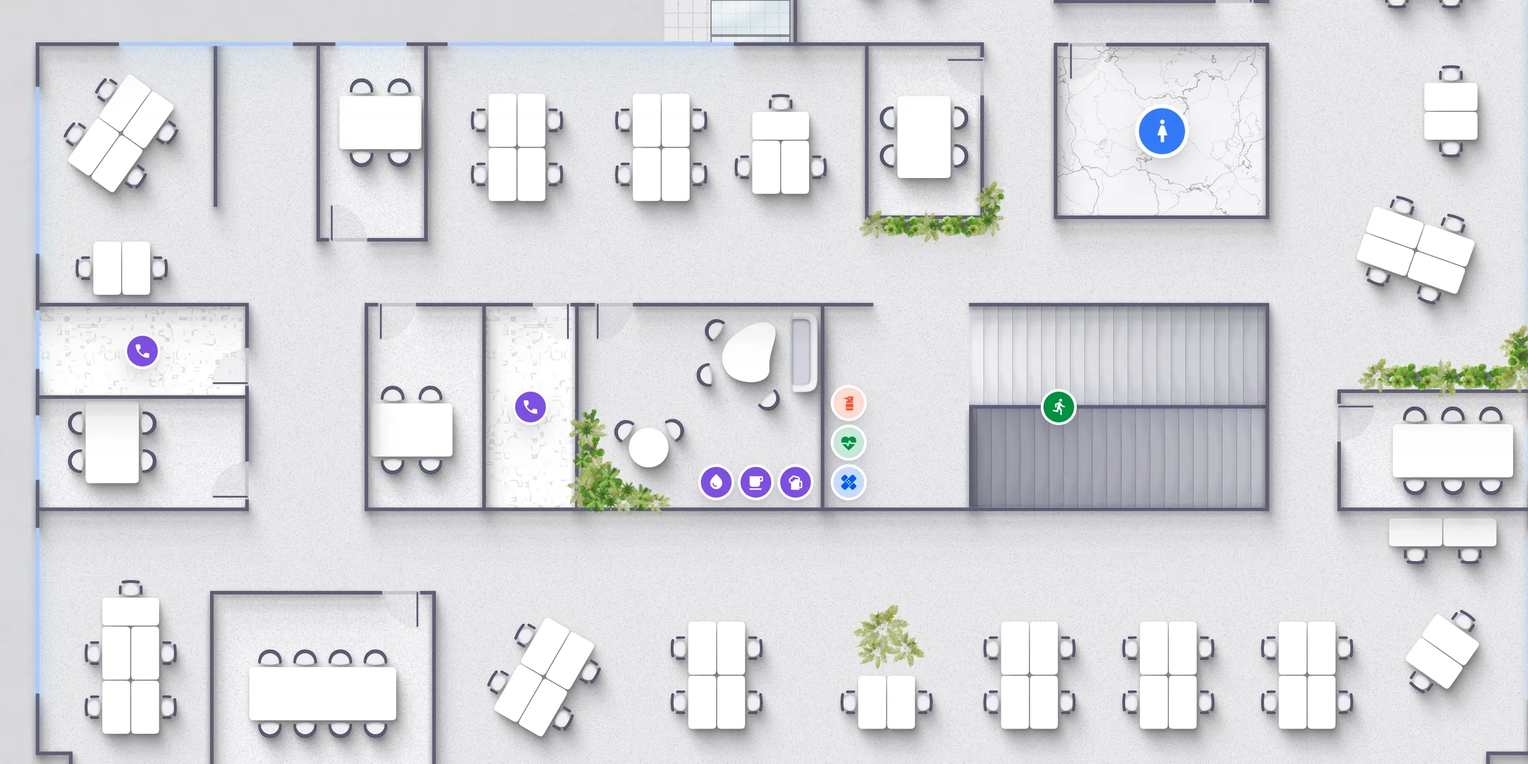
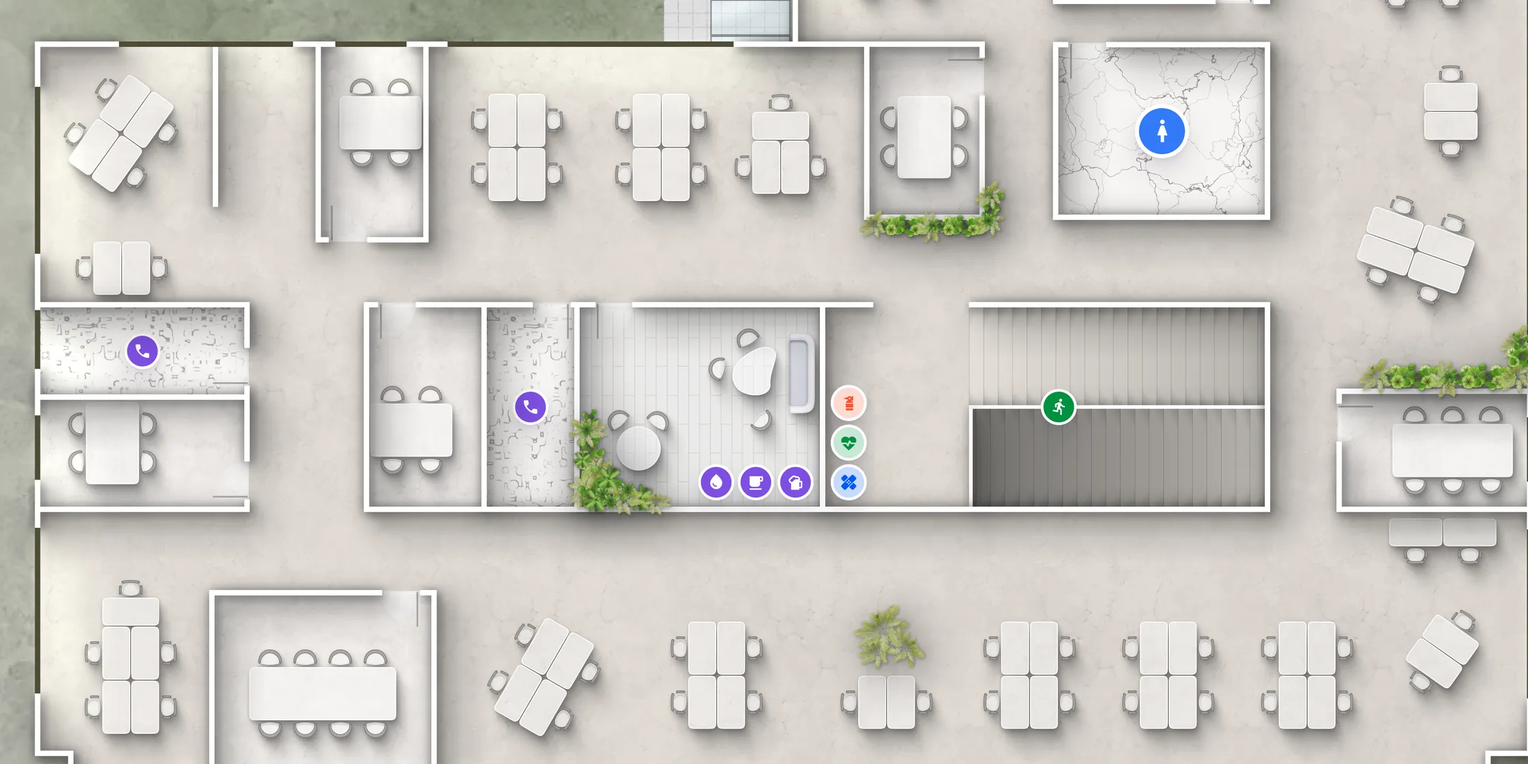
Cas Witco : version resserrée
Le cas passe d'environ 2 000 à 950 mots affichés, comme les autres cas :
retrait des blocs « 30 secondes », décisions et règles, qui redisaient le
texte, et des redites de l'idée centrale. Six figures au lieu de neuf ; le
détail des composants passe en style Aquarell.

diff --git a/content/fr/travaux/plans-d-etage.md b/content/fr/travaux/plans-d-etage.md
@@ -6,7 +6,7 @@ numero: 5
 slug: plans-d-etage
 statut: publie
 titre: "Ne plus retracer ce qu’on vient de dessiner"
-chapo: "Chez Witco, on réserve un bureau ou une salle depuis le plan de son étage. Pour y arriver, un designer dessinait chaque bureau dans Figma, puis quelqu’un le retraçait à la main sur la plateforme. Plutôt que d’accélérer ce second tracé, j’ai conçu un fond de carte qui ne perd plus l’information à l’export : un plan lisible par les humains, et indexable par la machine."
+chapo: "Chez Witco, on réserve un bureau ou une salle depuis le plan de son étage. Chaque bureau était dessiné dans Figma, puis retracé à la main sur la plateforme. J’ai conçu un fond de carte qui garde cette information à l’export : un plan lisible par les humains, et indexable par la machine."
 meta: "Witco · Réservation d’espaces sur plan"
 strates:
   surfaces: true
@@ -23,55 +23,21 @@ cartouche:
   duree: "Trois mois, en parallèle d’autres sujets"
   equipe: "Seul sur la logique et le fond de carte ; avec Jérôme sur l’outil d’étiquetage"
   livrables: "Logique métier et parcours, design system et méthode de fonds de carte, outil d’étiquetage (avec Jérôme)"
-trenteSecondes:
-  probleme: "Chaque espace d’un plan était dessiné dans Figma, exporté en image, puis retracé à la main sur la plateforme : environ deux jours pour un bâtiment de 1 800 espaces. On reconstruisait une information qui existait déjà au moment du dessin."
-  decision: "Ne plus perdre cette information. Chaque composant du fond de carte porte sa couche d’index ; elle est exportée dans un SVG aligné au pixel sur l’image."
-  ceQuiReste: "Un principe arrêté avant mon départ et repris tel quel pour le prototype : le fond de carte porte son propre index, l’outil n’a plus qu’à le relier à la plateforme."
-titreDecisions: "Supprimer la perte plutôt que la compenser"
-decisions:
-  - titre: "Garder l’information au lieu de la reconstruire"
-    plutotQue: "accélérer le tracé des espaces dans l’outil de la plateforme"
-    parceQue: "le designer sait où est chaque bureau au moment où il le pose ; c’est l’export en image qui effaçait cette connaissance"
-    auPrixDe: "une couche d’export à maintenir dans chaque composant"
-  - titre: "Deux lecteurs, deux fichiers, un même cadre"
-    plutotQue: "un fichier unique qui serve à la fois d’image et d’index"
-    parceQue: "l’humain a besoin d’ambiance et de repères, la machine de formes nommées et de rien d’autre ; à la même taille, les deux se superposent sans calage"
-    auPrixDe: "deux exports par plan, qui doivent rester synchrones"
-  - titre: "La structure enseigne la méthode"
-    plutotQue: "une documentation à lire avant de commencer"
-    parceQue: "personne ne lit les tutoriels ; un plan d’exemple découpé en calques se comprend en l’ouvrant"
-    auPrixDe: "un fichier d’exemple à tenir à jour avec le design system"
-titreRegles: "Ce que le fond de carte garantit"
-regles:
-  - "Poser un composant, c’est l’indexer : personne n’a d’étape d’indexation à se rappeler."
-  - "Chaque lecteur reçoit ce dont il a besoin, et rien d’autre : l’image pour l’humain, les formes nommées pour la machine."
-  - "Une personne qui ouvre le fichier doit pouvoir créer un plan sans lire la documentation."
 ecritsLies: [1, 3]
 casSuivant: 1
 ---
 
-Le problème se présentait comme un problème d’outil : le tracé des espaces sur la plateforme était trop lent. En remontant la chaîne, il est apparu ailleurs. L’information qu’on retraçait avait déjà été produite, puis perdue en route.
-
-![Plan d’étage dans la plateforme Witco : salles de réunion libres en vert, une salle occupée en rouge, une fiche « Meeting room 4 » avec un bouton de réservation](/images/plans-d-etage/reservation.webp "Fig. 01 · Côté utilisateur : réserver une salle depuis le plan (capture : Jérôme)")
+Le problème se présentait comme un problème d’outil : retracer les espaces sur la plateforme prenait trop de temps. En remontant la chaîne, il est apparu ailleurs. L’information qu’on retraçait avait déjà été produite, puis perdue en route.
 
 ## Avant : retracer ce qu’on venait de dessiner
 
-Pour qu’un client puisse réserver depuis un plan, quatre étapes s’enchaînaient :
+Un designer redessinait dans Figma le plan fourni par le client, en posant chaque bureau, puis l’exportait en image. Les équipes Customer Success importaient cette image dans la plateforme et y retraçaient chaque salle et chaque bureau, à la main.
 
-| Étape | Qui | Ce qui est fait |
-| --- | --- | --- |
-| 1 | Customer Success | Créer toutes les salles et tous les bureaux sur la plateforme. |
-| 2 | Designers | Redessiner le plan dans Figma, en posant chaque bureau, puis l’exporter en PNG. |
-| 3 | Customer Success | Importer l’image dans l’outil de création de la plateforme. |
-| 4 | Customer Success | Retracer chaque salle et chaque bureau par-dessus l’image. |
+![Plan d’architecte fourni par un client, annoté à la main : noms des salles reliés par des traits, zones des services entourées en bleu](/images/plans-d-etage/plan-client.webp "Fig. 01 · Le point de départ : le plan fourni par le client")
 
-![Plan d’architecte fourni par un client, annoté à la main : noms des salles reliés par des traits, zones des services entourées en bleu](/images/plans-d-etage/plan-client.webp "Fig. 02 · Le point de départ : le plan fourni par le client, annoté de ses noms de salles")
+![Outil de création de la plateforme : six salles de réunion retracées à la main en rouge par-dessus l’image du plan, la liste des ressources à droite](/images/plans-d-etage/trace-manuel.webp "Fig. 02 · Chaque salle retracée à la main par-dessus l’image (capture : Jérôme)")
 
-À l’étape 2, le designer place chaque bureau : il sait exactement où il se trouve. À l’étape 4, quelqu’un d’autre le retrace à l’œil. Entre les deux, l’export en image a tout aplati : le plan ne savait plus ce qu’il représentait.
-
-![Outil de création de la plateforme : six salles de réunion retracées à la main en rouge par-dessus l’image du plan, la liste des ressources à droite](/images/plans-d-etage/trace-manuel.webp "Fig. 03 · L’étape 4 : chaque salle retracée à la main par-dessus l’image (capture : Jérôme)")
-
-Les difficultés qu’on rencontrait à l’étape 4 venaient toutes de cette perte :
+Le designer savait où était chaque bureau ; l’export en image effaçait cette connaissance, et quelqu’un la reconstruisait à l’œil. Toutes les difficultés venaient de là :
 
 | Symptôme | Ce qu’il révèle |
 | --- | --- |
@@ -84,47 +50,21 @@ Accélérer le tracé aurait soulagé ces symptômes. J’ai préféré supprime
 
 ## Un composant qui sait ce qu’il est
 
-### Poser un bureau, c’est l’indexer
+Dans le design system des fonds de carte, chaque composant porte deux choses : son apparence et une couche dédiée à l’export. Un bureau contient un calque « desk » ; une salle de réunion, un bureau fermé ou une zone contiennent le leur. Le designer ne fait rien de plus que dessiner : l’index se construit pendant le dessin.
 
-Dans le design system des fonds de carte, chaque composant porte deux choses : son apparence et une couche dédiée à l’export. Un bureau contient un calque « desk » ; une salle de réunion, un bureau fermé ou une zone contiennent le leur. Le designer ne fait rien de plus que dessiner. L’index se construit pendant le dessin.
+![Détail d’un fond de carte en style Aquarell : postes de travail, salles de réunion, cabines téléphoniques et sanitaires repérés par des icônes, escalier, plantes](/images/plans-d-etage/detail.webp "Fig. 03 · Chaque bureau, chaque salle, chaque cabine est un composant qui porte son index")
 
-C’est un design system qui ne s’arrête pas à l’apparence. Il décrit aussi ce que chaque élément est, et cette description voyage avec lui jusqu’à la plateforme.
+Le style s’inspire des plans d’architecte présentés en avant-vente : ce plan sert à choisir où travailler, il doit donner envie de venir. Textures, végétation et icônes d’espaces suivent des règles d’usage, pour que deux designers produisent le même plan. Comme l’index tient aux composants et non à leur apparence, j’ai pu explorer plusieurs styles sans toucher à l’indexation.
 
-![Détail d’un fond de carte : postes de travail, salles de réunion, cabines téléphoniques et sanitaires repérés par des icônes, escalier, plantes](/images/plans-d-etage/detail.webp "Fig. 04 · Chaque bureau, chaque salle, chaque cabine est un composant qui porte son index")
-
-La méthode suit le même principe : chaque geste correspond à un groupe de calques. La structure du fichier montre l’ordre de fabrication.
-
-```figure
-type: parcours
-legende: "Fig. 05 · La méthode : chaque étape est un groupe de calques"
-etapes:
-  - { nom: "Placer le plan", description: "Le document du client sert de calque." }
-  - { nom: "Décalquer les cloisons", description: "Les murs et les pièces sont redessinés." }
-  - { nom: "Positionner le mobilier", description: "Chaque composant apporte son index." }
-  - { nom: "Ajouter les assets", description: "Textures, plantes, icônes des espaces." }
-```
-
-### Un plan qu’on a envie d’habiter
-
-Pour le style graphique, je suis parti des plans d’architecte présentés en avant-vente plutôt que des plans techniques. Ce plan sert à choisir où travailler. Il doit donner envie de venir, pas seulement inventorier des postes. D’où les textures, les plantes pour amener de la vie, et un système d’icônes qui désigne les espaces sans légende. Des règles d’usage encadrent chaque composant et chaque texture, pour que deux designers produisent le même plan.
-
-![Plan rapproché en style Aquarell : sol beige grainé, sanitaires en marbre, cabines en terrazzo, verrière, jardin et arbres peints à l’aquarelle, mobilier et icônes des espaces](/images/plans-d-etage/plan.webp "Fig. 06 · Le style Aquarell de près : sols texturés, marbre, terrazzo et jardin à l’aquarelle")
-
-J’ai exploré plusieurs styles sur ce même plan. D’un style à l’autre, seuls les fonds, les cloisons et la végétation changent d’aspect : la disposition reste identique. L’index étant porté par les composants, et non par leur apparence, changer de style ne touche pas à l’indexation.
-
-![Le même plan découpé en cinq bandes verticales, chacune dans un style : Origin, Carbon, Aquarell, Modernist Dark, Modernist Light](/images/plans-d-etage/styles.webp "Fig. 07 · Le même plan, cinq styles : Origin, Carbon, Aquarell, Modernist Dark, Modernist Light")
+![Le même plan découpé en cinq bandes verticales, chacune dans un style : Origin, Carbon, Aquarell, Modernist Dark, Modernist Light](/images/plans-d-etage/styles.webp "Fig. 04 · Le même plan, cinq styles : Origin, Carbon, Aquarell, Modernist Dark, Modernist Light")
 
 ## Un plan, deux lecteurs
 
-### Ce qu’on voit et ce qu’on indexe
-
-Le même plan a deux lecteurs qui n’attendent pas la même chose. L’humain a besoin d’ambiance et de repères. La machine a besoin de formes nommées, et de rien d’autre.
-
-À l’export, on produit donc deux fichiers de la même taille. Le PNG contient tout le dessin. Le SVG ne garde que les cadres à indexer. Comme ils partagent le même cadre, ils se superposent sans réglage : chaque forme du SVG tombe exactement sur le dessin qu’elle désigne. Les deux fichiers forment un contrat simple entre celui qui dessine et l’outil qui exploite.
+L’humain a besoin d’ambiance et de repères ; la machine, de formes nommées et de rien d’autre. À l’export, on produit donc deux fichiers de la même taille : le PNG garde tout le dessin, le SVG ne garde que les cadres à indexer. Superposés, chaque forme du SVG tombe exactement sur ce qu’elle désigne.
 
 ```figure
 type: strates
-legende: "Fig. 08 · Deux exports superposés, à la même taille"
+legende: "Fig. 05 · Deux exports superposés, à la même taille"
 strates:
   - nom: SVG
     elements: desk · zones · espaces
@@ -135,44 +75,23 @@ strates:
     note: Pour l’humain
 ```
 
-L’index ne sert pas qu’à l’étiquetage. Les mêmes formes doivent, à terme, permettre à l’utilisateur final de choisir son siège directement sur le plan. Une fois la structure présente dans le dessin, chaque nouvel usage en profite sans retoucher les plans existants.
+Il ne reste qu’à relier chaque forme à l’espace correspondant sur la plateforme. L’outil d’étiquetage est né de cette idée : nous l’avons conçu ensemble, Jérôme et moi, et il l’a prototypé avec Figma Make après mon départ. À terme, le même index doit aussi permettre à l’utilisateur final de choisir son siège sur le plan.
 
-::decisions
-
-## Ce qui reste à faire quand le plan sait tout
-
-### Relier une forme à un nom
-
-Avec un SVG déjà découpé, l’étiquetage ne demande plus de tracer : il suffit de relier chaque forme à l’espace correspondant sur la plateforme. L’outil est né de cette idée et nous l’avons conçu ensemble, Jérôme et moi. Tout était arrêté avant mon départ ; Jérôme a ensuite repris le projet pour le prototyper avec Figma Make.
-
-Le travail qui reste n’est plus du dessin, c’est de l’attention. L’outil la ménage :
-
-- **Mode éclair** : la plupart des clients nomment leurs espaces dans l’ordre du plan (M102, M103…). Une fois un espace assigné, l’outil propose le suivant.
-- **Étiquette sous le curseur** : le nom en cours d’assignation suit le pointeur, pour que le regard reste sur le plan.
-- **Noms dynamiques** : les étiquettes viennent de la plateforme et se mettent à jour si un nom change. Les designers n’ont plus à les dessiner.
-- **Mini-carte** : sur un grand plan, elle montre où l’on se trouve.
-
-![Prototype d’étiquetage : salles assignées en vert avec leur nom, le curseur affiche « Desk 5 », mode éclair activé dans le panneau, mini-carte en bas à droite](/images/plans-d-etage/mode-eclair.webp "Fig. 09 · Mode éclair : l’outil propose le bureau suivant, son nom suit le curseur (prototype et capture : Jérôme)")
+![Prototype d’étiquetage : salles assignées en vert avec leur nom, le curseur affiche « Desk 5 », mode éclair activé dans le panneau, mini-carte en bas à droite](/images/plans-d-etage/mode-eclair.webp "Fig. 06 · L’outil d’étiquetage : chaque forme est reliée à un espace, puis l’outil propose le suivant (prototype et capture : Jérôme)")
 
 ## Lever les risques avant qu’ils coûtent
 
-Le risque ne se trouvait ni dans Figma ni dans la plateforme, mais à la jonction : un SVG produit d’un côté serait-il exploitable de l’autre ? J’ai testé cette jonction en premier, sur de petits plans, avec des prototypes jetables codés avec l’IA de l’époque : un pour la création, un pour l’exploitation. Le concept a tenu dès ces essais.
+Le risque ne se trouvait ni dans Figma ni dans la plateforme, mais à la jonction : un SVG produit d’un côté serait-il exploitable de l’autre ? Je l’ai testé en premier, sur de petits plans, avec des prototypes jetables codés avec l’IA : un pour la création, un pour l’exploitation. Le concept a tenu dès ces essais.
 
-Le second risque était l’adoption de la méthode. Une méthode qu’il faut apprendre dans un tutoriel finit par être mal appliquée. J’ai donc fait tester la création à des collègues avec un plan d’exemple découpé en calques, sans explication. Ils ont pris la main très vite : la structure suffisait.
-
-Le projet n’a pas connu de crise. Je ne l’attribue pas à la chance : les deux risques ont été levés tôt, à petite échelle, avant qu’un plan réel en dépende.
+Restait l’adoption. Personne ne lit les tutoriels : j’ai fait tester la création à des collègues avec un seul plan d’exemple découpé en calques, sans explication. Ils ont pris la main très vite ; la structure du fichier suffisait à enseigner la méthode.
 
 ## Résultats et limites
 
-### Deux jours ramenés à deux heures, sur un prototype
+Sur le prototype de Jérôme, l’étiquetage d’un petit plan est passé de 3 min 47 s à 20 s. Pour un bâtiment de 1 800 espaces, l’estimation passe de deux jours à deux heures. Et les noms venant de la plateforme, les designers n’ont plus à les dessiner.
 
-Les mesures viennent du prototype réalisé par Jérôme après mon départ. Sur un petit plan d’exemple, l’étiquetage est passé de 3 min 47 s à 20 s. Pour un bâtiment de six étages et 1 800 espaces, l’estimation passe de deux jours à deux heures. Les étiquettes étant générées, Jérôme estime que les designers gagnent 20 % du temps de création d’un plan.
+Ce sont des chiffres de prototype, pas de production. Le principe a aussi un coût : une couche d’export à maintenir dans chaque composant, deux fichiers à garder synchrones, et une discipline, puisqu’un plan dessiné sans les composants ne produit aucun index.
 
-Ces chiffres sont issus d’un prototype, pas d’un outil en production. Le gain repose aussi sur une discipline : un plan dessiné sans les composants ne produit aucun index. Le mode éclair, lui, suppose des noms qui suivent l’ordre du plan, ce qui est fréquent mais pas universel.
-
-À mon départ, la méthode, le design system et l’outil étaient conçus et validés. Le prototype et ce qui a suivi reviennent à Jérôme et à l’équipe en place.
-
-Le cas de Jérôme, côté outil : [Witco : AI Proof of Concept](https://jeromedesigns.notion.site/Witco-AI-Proof-of-Concept-295340f4e6108081aba3fc875e571af2).
+À mon départ, la méthode, le design system et l’outil étaient conçus et validés. Le cas de Jérôme montre la suite côté outil : [Witco : AI Proof of Concept](https://jeromedesigns.notion.site/Witco-AI-Proof-of-Concept-295340f4e6108081aba3fc875e571af2).
 
 :::lead
 On ne gagne pas du temps en traçant plus vite, mais en n’ayant plus rien à retracer.

diff --git a/content/en/work/floor-maps.md b/content/en/work/floor-maps.md
@@ -6,7 +6,7 @@ numero: 5
 slug: floor-maps
 statut: publie
 titre: "No longer retracing what was just drawn"
-chapo: "At Witco, people book a desk or a room from their floor map. To get there, a designer drew every desk in Figma, then someone traced it again by hand on the platform. Rather than speeding up that second tracing, I designed a base map that no longer loses information on export: a plan readable by humans, and indexable by the machine."
+chapo: "At Witco, people book a desk or a room from their floor map. Every desk was drawn in Figma, then traced again by hand on the platform. I designed a base map that keeps that information on export: a plan readable by humans, and indexable by the machine."
 meta: "Witco · Booking spaces on a floor map"
 strates:
   surfaces: true
@@ -23,55 +23,21 @@ cartouche:
   duree: "Three months, alongside other projects"
   equipe: "On my own for the logic and the base map; with Jérôme for the tagging tool"
   livrables: "Business logic and user flow, base map design system and method, tagging tool (with Jérôme)"
-trenteSecondes:
-  probleme: "Every space on a plan was drawn in Figma, exported as an image, then traced again by hand on the platform: about two days for a building with 1,800 spaces. People were rebuilding information that already existed when the plan was drawn."
-  decision: "Stop losing that information. Every base map component carries its own index layer, exported to an SVG aligned pixel for pixel with the image."
-  ceQuiReste: "A principle settled before I left and carried over as is into the prototype: the base map carries its own index, and the tool only has to link it to the platform."
-titreDecisions: "Removing the loss rather than compensating for it"
-decisions:
-  - titre: "Keep the information instead of rebuilding it"
-    plutotQue: "speeding up the tracing of spaces in the platform’s tool"
-    parceQue: "the designer knows where each desk is when placing it; exporting to an image erased that knowledge"
-    auPrixDe: "an export layer to maintain in every component"
-  - titre: "Two readers, two files, one frame"
-    plutotQue: "a single file serving as both image and index"
-    parceQue: "humans need atmosphere and landmarks, the machine needs named shapes and nothing else; at the same size, the two overlay without adjustment"
-    auPrixDe: "two exports per plan, which must stay in sync"
-  - titre: "The structure teaches the method"
-    plutotQue: "documentation to read before starting"
-    parceQue: "nobody reads tutorials; a sample plan split into layers makes sense as soon as you open it"
-    auPrixDe: "a sample file to keep up to date with the design system"
-titreRegles: "What the base map guarantees"
-regles:
-  - "Placing a component indexes it: nobody has an indexing step to remember."
-  - "Each reader gets what it needs and nothing more: the image for humans, named shapes for the machine."
-  - "Someone opening the file must be able to create a plan without reading the documentation."
 ecritsLies: [1, 3]
 casSuivant: 1
 ---
 
-The problem looked like a tooling problem: tracing spaces on the platform was too slow. Going back up the chain, it turned out to lie elsewhere. The information being traced had already been produced, then lost along the way.
-
-![Floor plan in the Witco platform: available meeting rooms in green, an occupied room in red, a “Meeting room 4” card with a booking button](/images/plans-d-etage/reservation.webp "Fig. 01 · On the user side: booking a room from the plan (screenshot: Jérôme)")
+The problem looked like a tooling problem: tracing spaces on the platform took too long. Going back up the chain, it turned out to lie elsewhere. The information being traced had already been produced, then lost along the way.
 
 ## Before: retracing what had just been drawn
 
-For a client to book from a map, four steps followed one another:
+A designer redrew the client’s plan in Figma, placing each desk, then exported it as an image. Customer Success teams uploaded that image to the platform and traced every room and every desk over it, by hand.
 
-| Step | Who | What is done |
-| --- | --- | --- |
-| 1 | Customer Success | Create every room and every desk on the platform. |
-| 2 | Designers | Redraw the plan in Figma, placing each desk, then export it as PNG. |
-| 3 | Customer Success | Upload the image to the platform’s setup tool. |
-| 4 | Customer Success | Trace every room and every desk again over the image. |
+![Architect’s plan supplied by a client, annotated by hand: room names linked by lines, department areas outlined in blue](/images/plans-d-etage/plan-client.webp "Fig. 01 · The starting point: the plan supplied by the client")
 
-![Architect’s plan supplied by a client, annotated by hand: room names linked by lines, department areas outlined in blue](/images/plans-d-etage/plan-client.webp "Fig. 02 · The starting point: the plan supplied by the client, annotated with its room names")
+![The platform’s setup tool: six meeting rooms traced by hand in red over the plan image, the list of resources on the right](/images/plans-d-etage/trace-manuel.webp "Fig. 02 · Every room traced by hand over the image (screenshot: Jérôme)")
 
-At step 2, the designer places each desk and knows exactly where it is. At step 4, someone else traces it again by eye. In between, exporting to an image flattened everything: the plan no longer knew what it showed.
-
-![The platform’s setup tool: six meeting rooms traced by hand in red over the plan image, the list of resources on the right](/images/plans-d-etage/trace-manuel.webp "Fig. 03 · Step 4: every room traced by hand over the image (screenshot: Jérôme)")
-
-The difficulties met at step 4 all came from that loss:
+The designer knew where each desk was; exporting to an image erased that knowledge, and someone rebuilt it by eye. Every difficulty came from there:
 
 | Symptom | What it reveals |
 | --- | --- |
@@ -84,47 +50,21 @@ Speeding up the tracing would have eased these symptoms. I chose to remove the l
 
 ## A component that knows what it is
 
-### Placing a desk indexes it
+In the base map design system, every component carries two things: its appearance and a layer dedicated to export. A desk contains a “desk” layer; a meeting room, a closed office or a zone contain their own. The designer does nothing more than draw: the index builds itself as the plan is drawn.
 
-In the base map design system, every component carries two things: its appearance and a layer dedicated to export. A desk contains a “desk” layer; a meeting room, a closed office or a zone contain their own. The designer does nothing more than draw. The index builds itself as the plan is drawn.
+![Detail of a base map in the Aquarell style: workstations, meeting rooms, phone booths and restrooms marked with icons, a staircase, plants](/images/plans-d-etage/detail.webp "Fig. 03 · Every desk, room and booth is a component that carries its index")
 
-This design system does not stop at appearance. It also describes what each element is, and that description travels with it all the way to the platform.
+The style draws on the architect’s plans shown in pre-sales: this plan is used to choose where to work, so it has to make people want to come in. Textures, greenery and space icons follow usage rules, so that two designers produce the same plan. Since the index belongs to the components, not to their appearance, I could explore several styles without touching indexing.
 
-![Detail of a base map: workstations, meeting rooms, phone booths and restrooms marked with icons, a staircase, plants](/images/plans-d-etage/detail.webp "Fig. 04 · Every desk, room and booth is a component that carries its index")
-
-The method follows the same principle: each move maps to a layer group. The structure of the file shows the order in which the plan is made.
-
-```figure
-type: parcours
-legende: "Fig. 05 · The method: each step is a layer group"
-etapes:
-  - { nom: "Place the plan", description: "The client’s document serves as a tracing layer." }
-  - { nom: "Trace the partitions", description: "Walls and rooms are redrawn." }
-  - { nom: "Position the furniture", description: "Each component brings its index." }
-  - { nom: "Add the assets", description: "Textures, plants, space icons." }
-```
-
-### A plan you want to inhabit
-
-For the graphic style, I started from the architect’s plans shown in pre-sales rather than from technical drawings. This plan is used to choose where to work. It has to make people want to come in, not just list workstations. Hence the textures, the plants to bring some life, and an icon system that identifies spaces without a legend. Usage rules frame every component and every texture, so that two designers produce the same plan.
-
-![Close-up of the Aquarell style: grained beige floor, marble restrooms, terrazzo booths, glass walkway, garden and trees painted in watercolour, furniture and space icons](/images/plans-d-etage/plan.webp "Fig. 06 · The Aquarell style up close: textured floors, marble, terrazzo and a watercolour garden")
-
-I explored several styles on this same plan. From one style to the next, only the backgrounds, partitions and greenery change appearance: the layout stays identical. Since the index is carried by the components, not by their appearance, changing style does not affect indexing.
-
-![The same plan cut into five vertical bands, each in a style: Origin, Carbon, Aquarell, Modernist Dark, Modernist Light](/images/plans-d-etage/styles.webp "Fig. 07 · The same plan, five styles: Origin, Carbon, Aquarell, Modernist Dark, Modernist Light")
+![The same plan cut into five vertical bands, each in a style: Origin, Carbon, Aquarell, Modernist Dark, Modernist Light](/images/plans-d-etage/styles.webp "Fig. 04 · The same plan, five styles: Origin, Carbon, Aquarell, Modernist Dark, Modernist Light")
 
 ## One plan, two readers
 
-### What you see and what you index
-
-The same plan has two readers who do not expect the same thing. Humans need atmosphere and landmarks. The machine needs named shapes, and nothing else.
-
-On export, two files of the same size are therefore produced. The PNG holds the whole drawing. The SVG keeps only the frames to index. Because they share the same frame, they overlay without adjustment: every shape in the SVG falls exactly on the drawing it refers to. Together, the two files form a simple contract between the person who draws and the tool that uses the plan.
+Humans need atmosphere and landmarks; the machine needs named shapes and nothing else. On export, two files of the same size are therefore produced: the PNG keeps the whole drawing, the SVG keeps only the frames to index. Overlaid, every shape in the SVG falls exactly on what it refers to.
 
 ```figure
 type: strates
-legende: "Fig. 08 · Two overlaid exports, at the same size"
+legende: "Fig. 05 · Two overlaid exports, at the same size"
 strates:
   - nom: SVG
     elements: desk · zones · spaces
@@ -135,44 +75,23 @@ strates:
     note: For humans
 ```
 
-The index is not only for tagging. Eventually, the same shapes are meant to let end users pick their seat directly on the plan. Once the structure lives in the drawing, every new use benefits from it without touching existing plans.
+All that remains is to link each shape to the matching space on the platform. The tagging tool grew out of that idea: Jérôme and I designed it together, and he prototyped it with Figma Make after I left. Eventually, the same index is also meant to let end users pick their seat on the plan.
 
-::decisions
-
-## What is left to do when the plan knows everything
-
-### Linking a shape to a name
-
-With an SVG already split into shapes, tagging no longer requires tracing: each shape only has to be linked to the matching space on the platform. The tool grew out of that idea, and Jérôme and I designed it together. Everything was settled before I left; Jérôme then took the project over to prototype it with Figma Make.
-
-The work that remains is no longer drawing, it is attention. The tool spares it:
-
-- **Lightning mode**: most clients name their spaces in the order of the plan (M102, M103…). Once a space is assigned, the tool offers the next one.
-- **Label under the cursor**: the name being assigned follows the pointer, so the eyes stay on the plan.
-- **Dynamic names**: labels come from the platform and update if a name changes. Designers no longer have to draw them.
-- **Mini-map**: on a large plan, it shows where you are.
-
-![Tagging prototype: assigned rooms in green with their names, the cursor shows “Desk 5”, lightning mode switched on in the panel, mini-map at the bottom right](/images/plans-d-etage/mode-eclair.webp "Fig. 09 · Lightning mode: the tool offers the next desk, its name follows the cursor (prototype and screenshot: Jérôme)")
+![Tagging prototype: assigned rooms in green with their names, the cursor shows “Desk 5”, lightning mode switched on in the panel, mini-map at the bottom right](/images/plans-d-etage/mode-eclair.webp "Fig. 06 · The tagging tool: each shape is linked to a space, then the tool offers the next one (prototype and screenshot: Jérôme)")
 
 ## Removing risks before they cost anything
 
-The risk was neither in Figma nor in the platform, but at the junction: would an SVG produced on one side be usable on the other? I tested that junction first, on small plans, with throwaway prototypes coded with the AI of the time: one for creation, one for use. The concept held from those first trials.
+The risk was neither in Figma nor in the platform, but at the junction: would an SVG produced on one side be usable on the other? I tested it first, on small plans, with throwaway prototypes coded with AI: one for creation, one for use. The concept held from those first trials.
 
-The second risk was adoption of the method. A method you have to learn from a tutorial ends up poorly applied. So I had colleagues test map creation with a sample plan split into layers, without any explanation. They picked it up very quickly: the structure was enough.
-
-The project went through no crisis. I do not put that down to luck: both risks were removed early, at small scale, before any real plan depended on them.
+That left adoption. Nobody reads tutorials: I had colleagues test map creation with a single sample plan split into layers, without any explanation. They picked it up very quickly; the structure of the file was enough to teach the method.
 
 ## Results and limits
 
-### Two days down to two hours, on a prototype
+On Jérôme’s prototype, tagging a small plan went from 3 min 47 s to 20 s. For a building with 1,800 spaces, the estimate goes from two days to two hours. And since names come from the platform, designers no longer have to draw them.
 
-The figures come from the prototype Jérôme built after I left. On a small sample plan, tagging went from 3 min 47 s to 20 s. For a six-floor building with 1,800 spaces, the estimate goes from two days to two hours. Since labels are generated, Jérôme estimates that designers save 20% of the time it takes to create a plan.
+These are prototype figures, not production ones. The principle also has a cost: an export layer to maintain in every component, two files to keep in sync, and a discipline, since a plan drawn without the components produces no index.
 
-These figures come from a prototype, not from a tool in production. The gain also depends on discipline: a plan drawn without the components produces no index. Lightning mode, for its part, assumes names that follow the order of the plan, which is common but not universal.
-
-When I left, the method, the design system and the tool were designed and validated. The prototype and what followed belong to Jérôme and the team in place.
-
-Jérôme’s case, on the tool side: [Witco: AI Proof of Concept](https://jeromedesigns.notion.site/Witco-AI-Proof-of-Concept-295340f4e6108081aba3fc875e571af2).
+When I left, the method, the design system and the tool were designed and validated. Jérôme’s case shows what followed on the tool side: [Witco: AI Proof of Concept](https://jeromedesigns.notion.site/Witco-AI-Proof-of-Concept-295340f4e6108081aba3fc875e571af2).
 
 :::lead
 You do not save time by tracing faster, but by having nothing left to trace.
